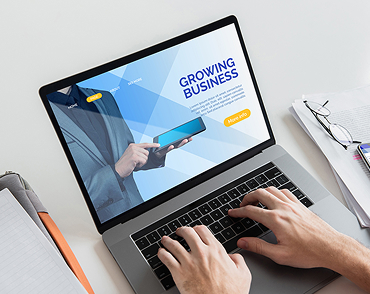
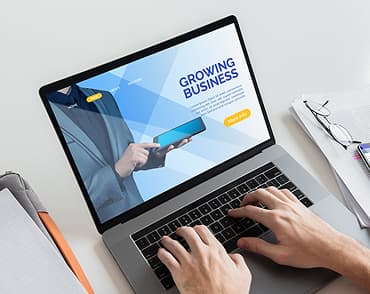
Сжатие картинок и редактирование кода

diff --git a/portfolio.html b/portfolio.html
@@ -7,17 +7,17 @@
     <link rel="preconnect" href="https://fonts.googleapis.com">
     <link rel="preconnect" href="https://fonts.gstatic.com" crossorigin>
     <link href="https://fonts.googleapis.com/css2?family=Raleway:ital,wght@0,700;1,700&family=Roboto:ital,wdth,wght@0,75..100,100..900;1,75..100,100..900&display=swap" rel="stylesheet">
-    <link rel="stylesheet" href="/css/styles.css">
+    <link rel="stylesheet" href="./css/styles.css">
     </head>
 <body>
 
     <header>
-        <a href="/index.html" class="logo"><span>Web</span>Studio</a>
+        <a href="./index.html" class="logo"><span>Web</span>Studio</a>
 
         <nav class="site-nav list">
           <ul>
-            <li><a href="/index.html" class="link">Студія</a></li>
-            <li><a href="/portfolio.html" class="link">Портфоліо</a></li>
+            <li><a href="./index.html" class="link">Студія</a></li>
+            <li><a href="./portfolio.html" class="link">Портфоліо</a></li>
             <li><a href="" class="link">Контакти</a></li>
           </ul>
         </nav>
@@ -57,55 +57,55 @@
     <section>
         <ul>
             <li>
-             <img src="/images/portfolio/tehno.jpg" alt="Зображення ноутбуку" width="370" height="294">
+             <img src="./images/portfolio/tehno.jpg" alt="Зображення ноутбуку" width="370" height="294">
              <h2 class="section-tittle">Технокряк</h2>
              <p>Веб-сайт</p>
            </li> 
         
             <li>
-             <img src="/images/portfolio/neworlean.jpg" alt="Постер New Orlean  vs Golden Star" width="370" height="294">
+             <img src="./images/portfolio/neworlean.jpg" alt="Постер New Orlean  vs Golden Star" width="370" height="294">
              <h2 class="section-tittle">Постер New Orlean vs G olden Star</h2>
              <p>Дизайн</p>
            </li>
 
             <li>
-             <img src="/images/portfolio/seafood.jpg" alt="Логотип ресторану" width="370" height="294">
+             <img src="./images/portfolio/seafood.jpg" alt="Логотип ресторану" width="370" height="294">
              <h2 class="section-tittle">Ресторан Seafood</h2>
              <p>Додаток</p>
            </li>
 
             <li>
-             <img src="/images/portfolio/prime.jpg" alt="Фото навушників" width="370" height="294">
+             <img src="./images/portfolio/prime.jpg" alt="Фото навушників" width="370" height="294">
              <h2 class="section-tittle">Проєкт Prime</h2>
              <p>Маркетинг</p>
            </li>
 
             <li> 
-             <img src="/images/portfolio/boxes.jpg" alt="Фото коробок" width="370" height="294">
+             <img src="./images/portfolio/boxes.jpg" alt="Фото коробок" width="370" height="294">
              <h2 class="section-tittle">Проєкт Boxes</h2>
              <p>Додаток</p>
             </li>
 
             <li>
-             <img src="/images/portfolio/borders.jpg" alt="Зображення монітору" width="370" height="294">
+             <img src="./images/portfolio/borders.jpg" alt="Зображення монітору" width="370" height="294">
              <h2 class="section-tittle">Inspiration has no Borders</h2>
              <p>Веб-сайт</p>
             </li>
 
             <li>
-             <img src="/images/portfolio/limitededition.jpg" alt="Зображення журналу" width="370" height="294">
+             <img src="./images/portfolio/limitededition.jpg" alt="Зображення журналу" width="370" height="294">
              <h2 class="section-tittle">Видання Limited Edition</h2>
              <p>Дизайн</p>
            </li>
 
             <li>
-             <img src="/images/portfolio/lab.jpg" alt="Фото лейблу" width="370" height="294">
+             <img src="./images/portfolio/lab.jpg" alt="Фото лейблу" width="370" height="294">
              <h2 class="section-tittle">Проєкт LAB</h2>
              <p>Маркетинг</p>
             </li> 
 
            <li>
-             <img src="/images/portfolio/growingbusiness.jpg" alt="Фото  ноутбуку" width="370" height="294">
+             <img src="./images/portfolio/growingbusiness.jpg" alt="Фото  ноутбуку" width="370" height="294">
              <h2 class="section-tittle">Growing Business</h2>
              <p>Додаток</p>
            </li>
